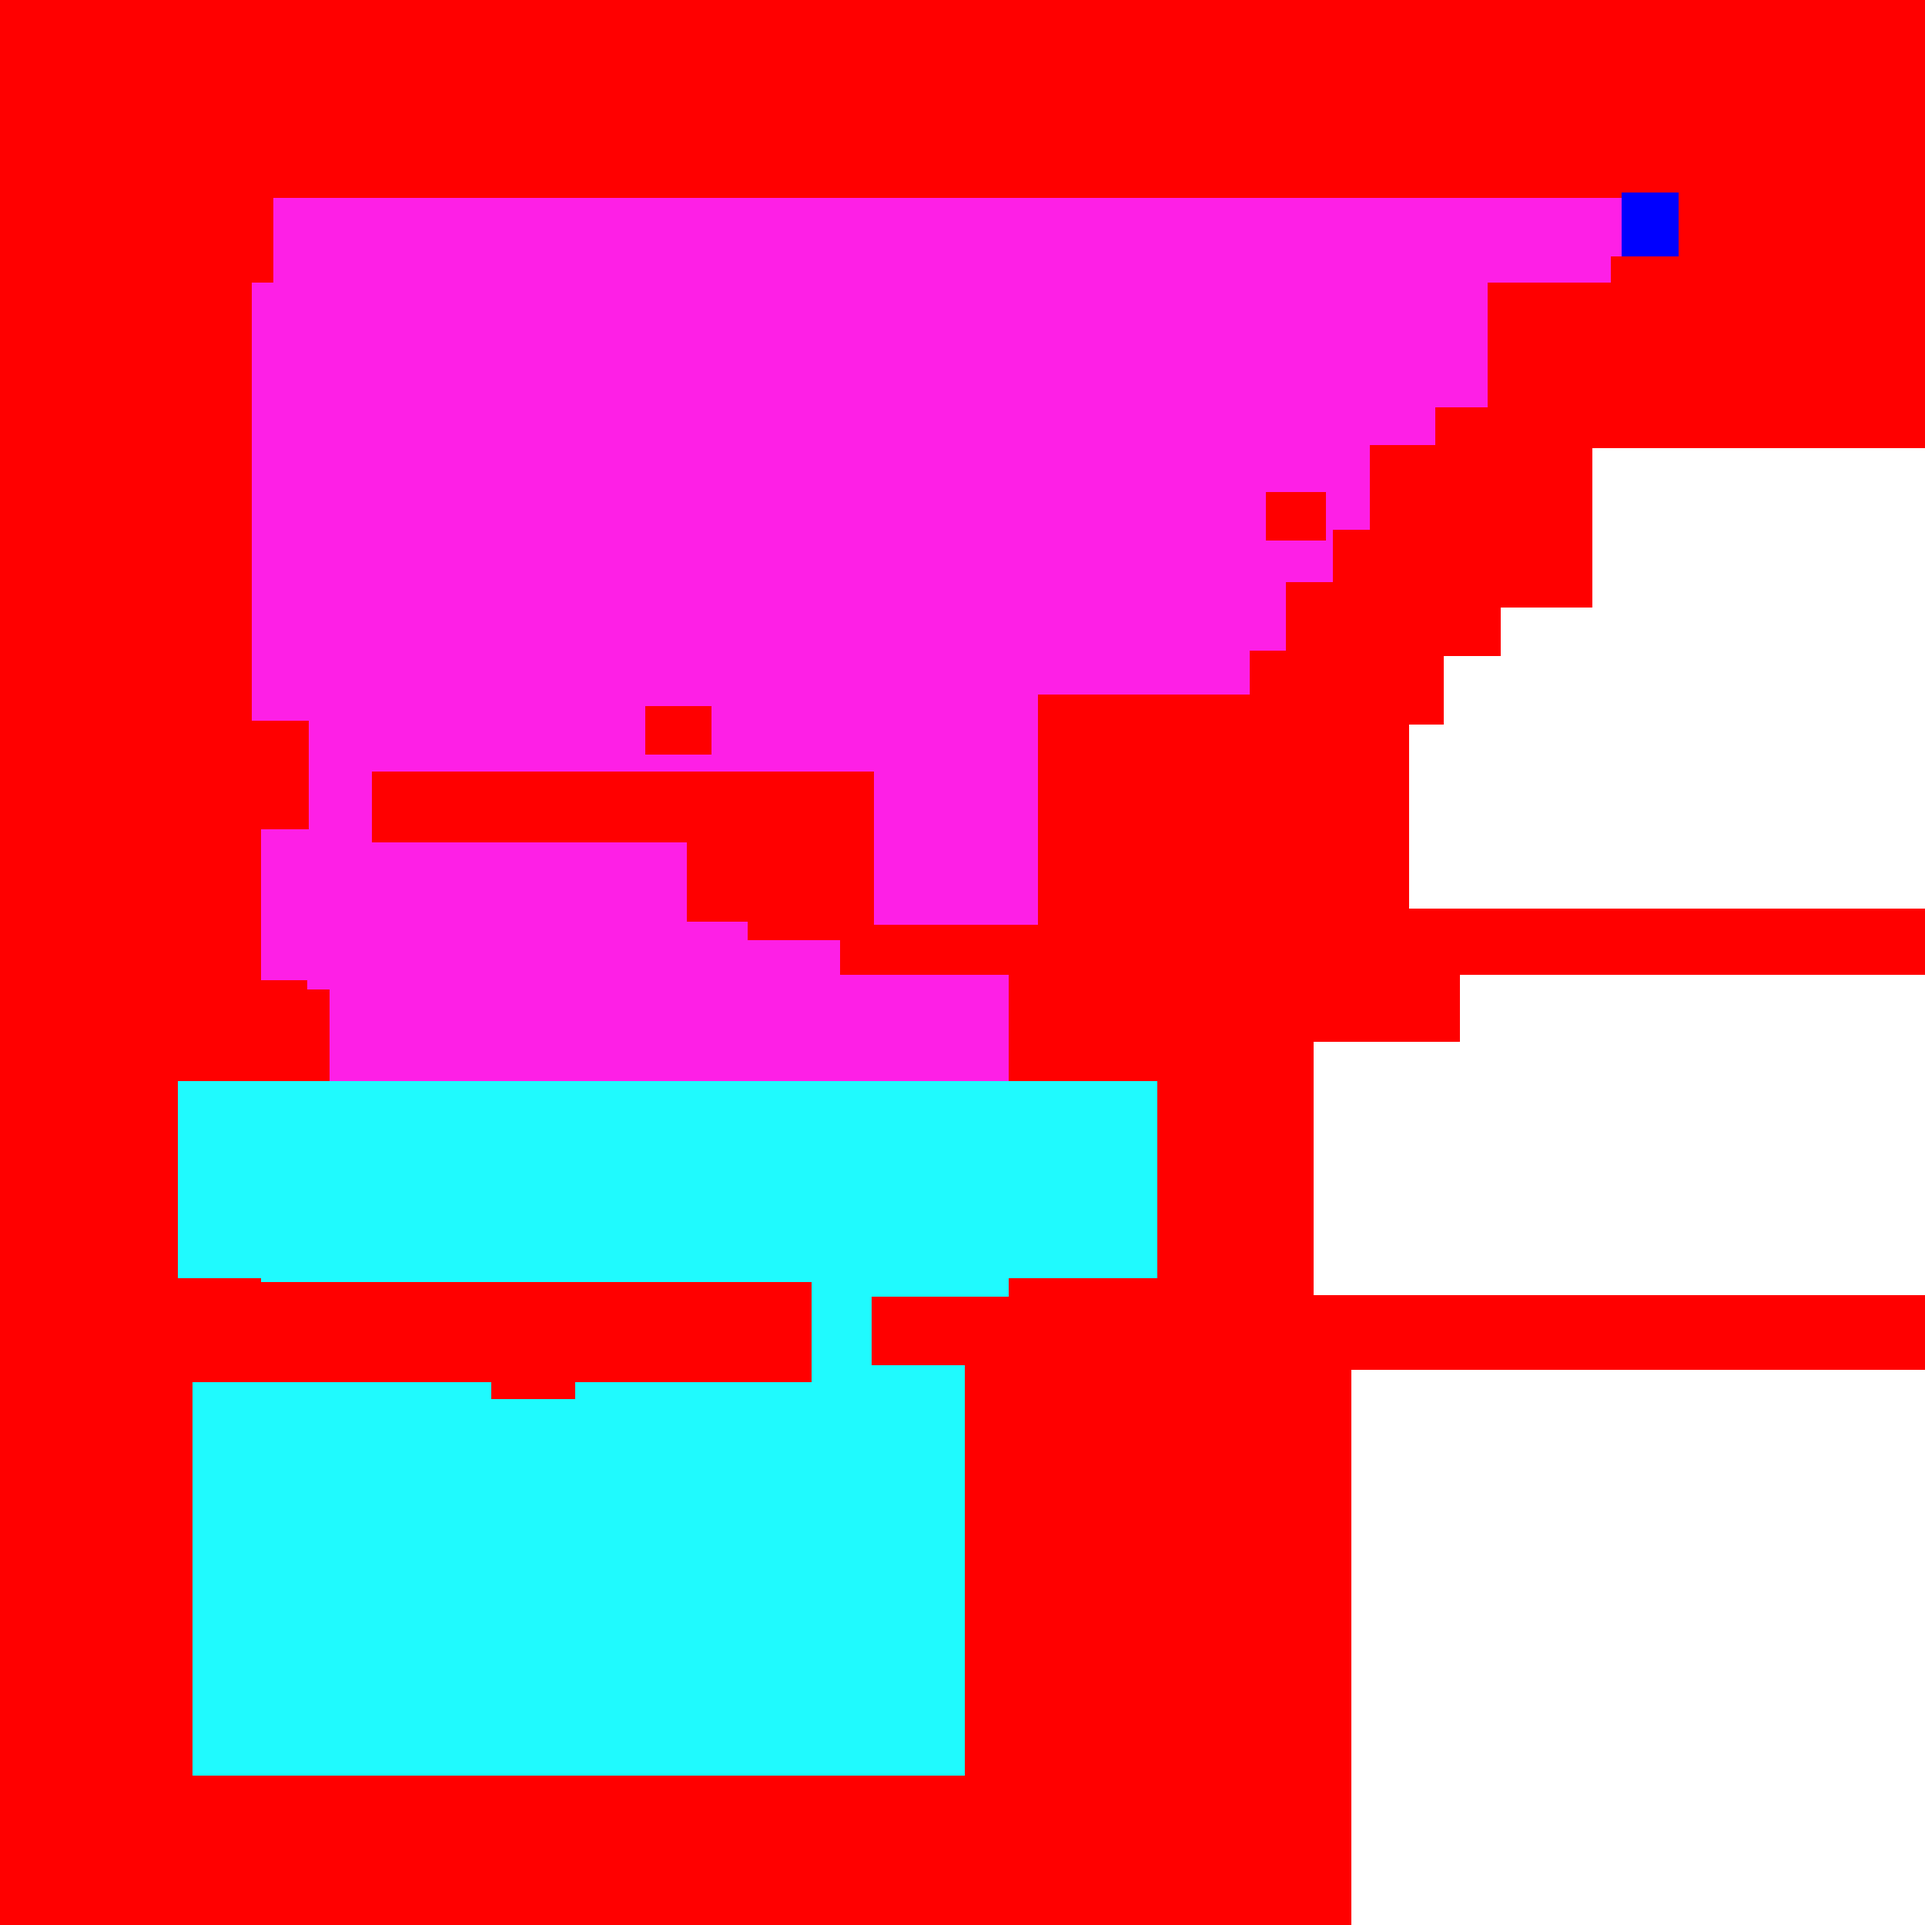
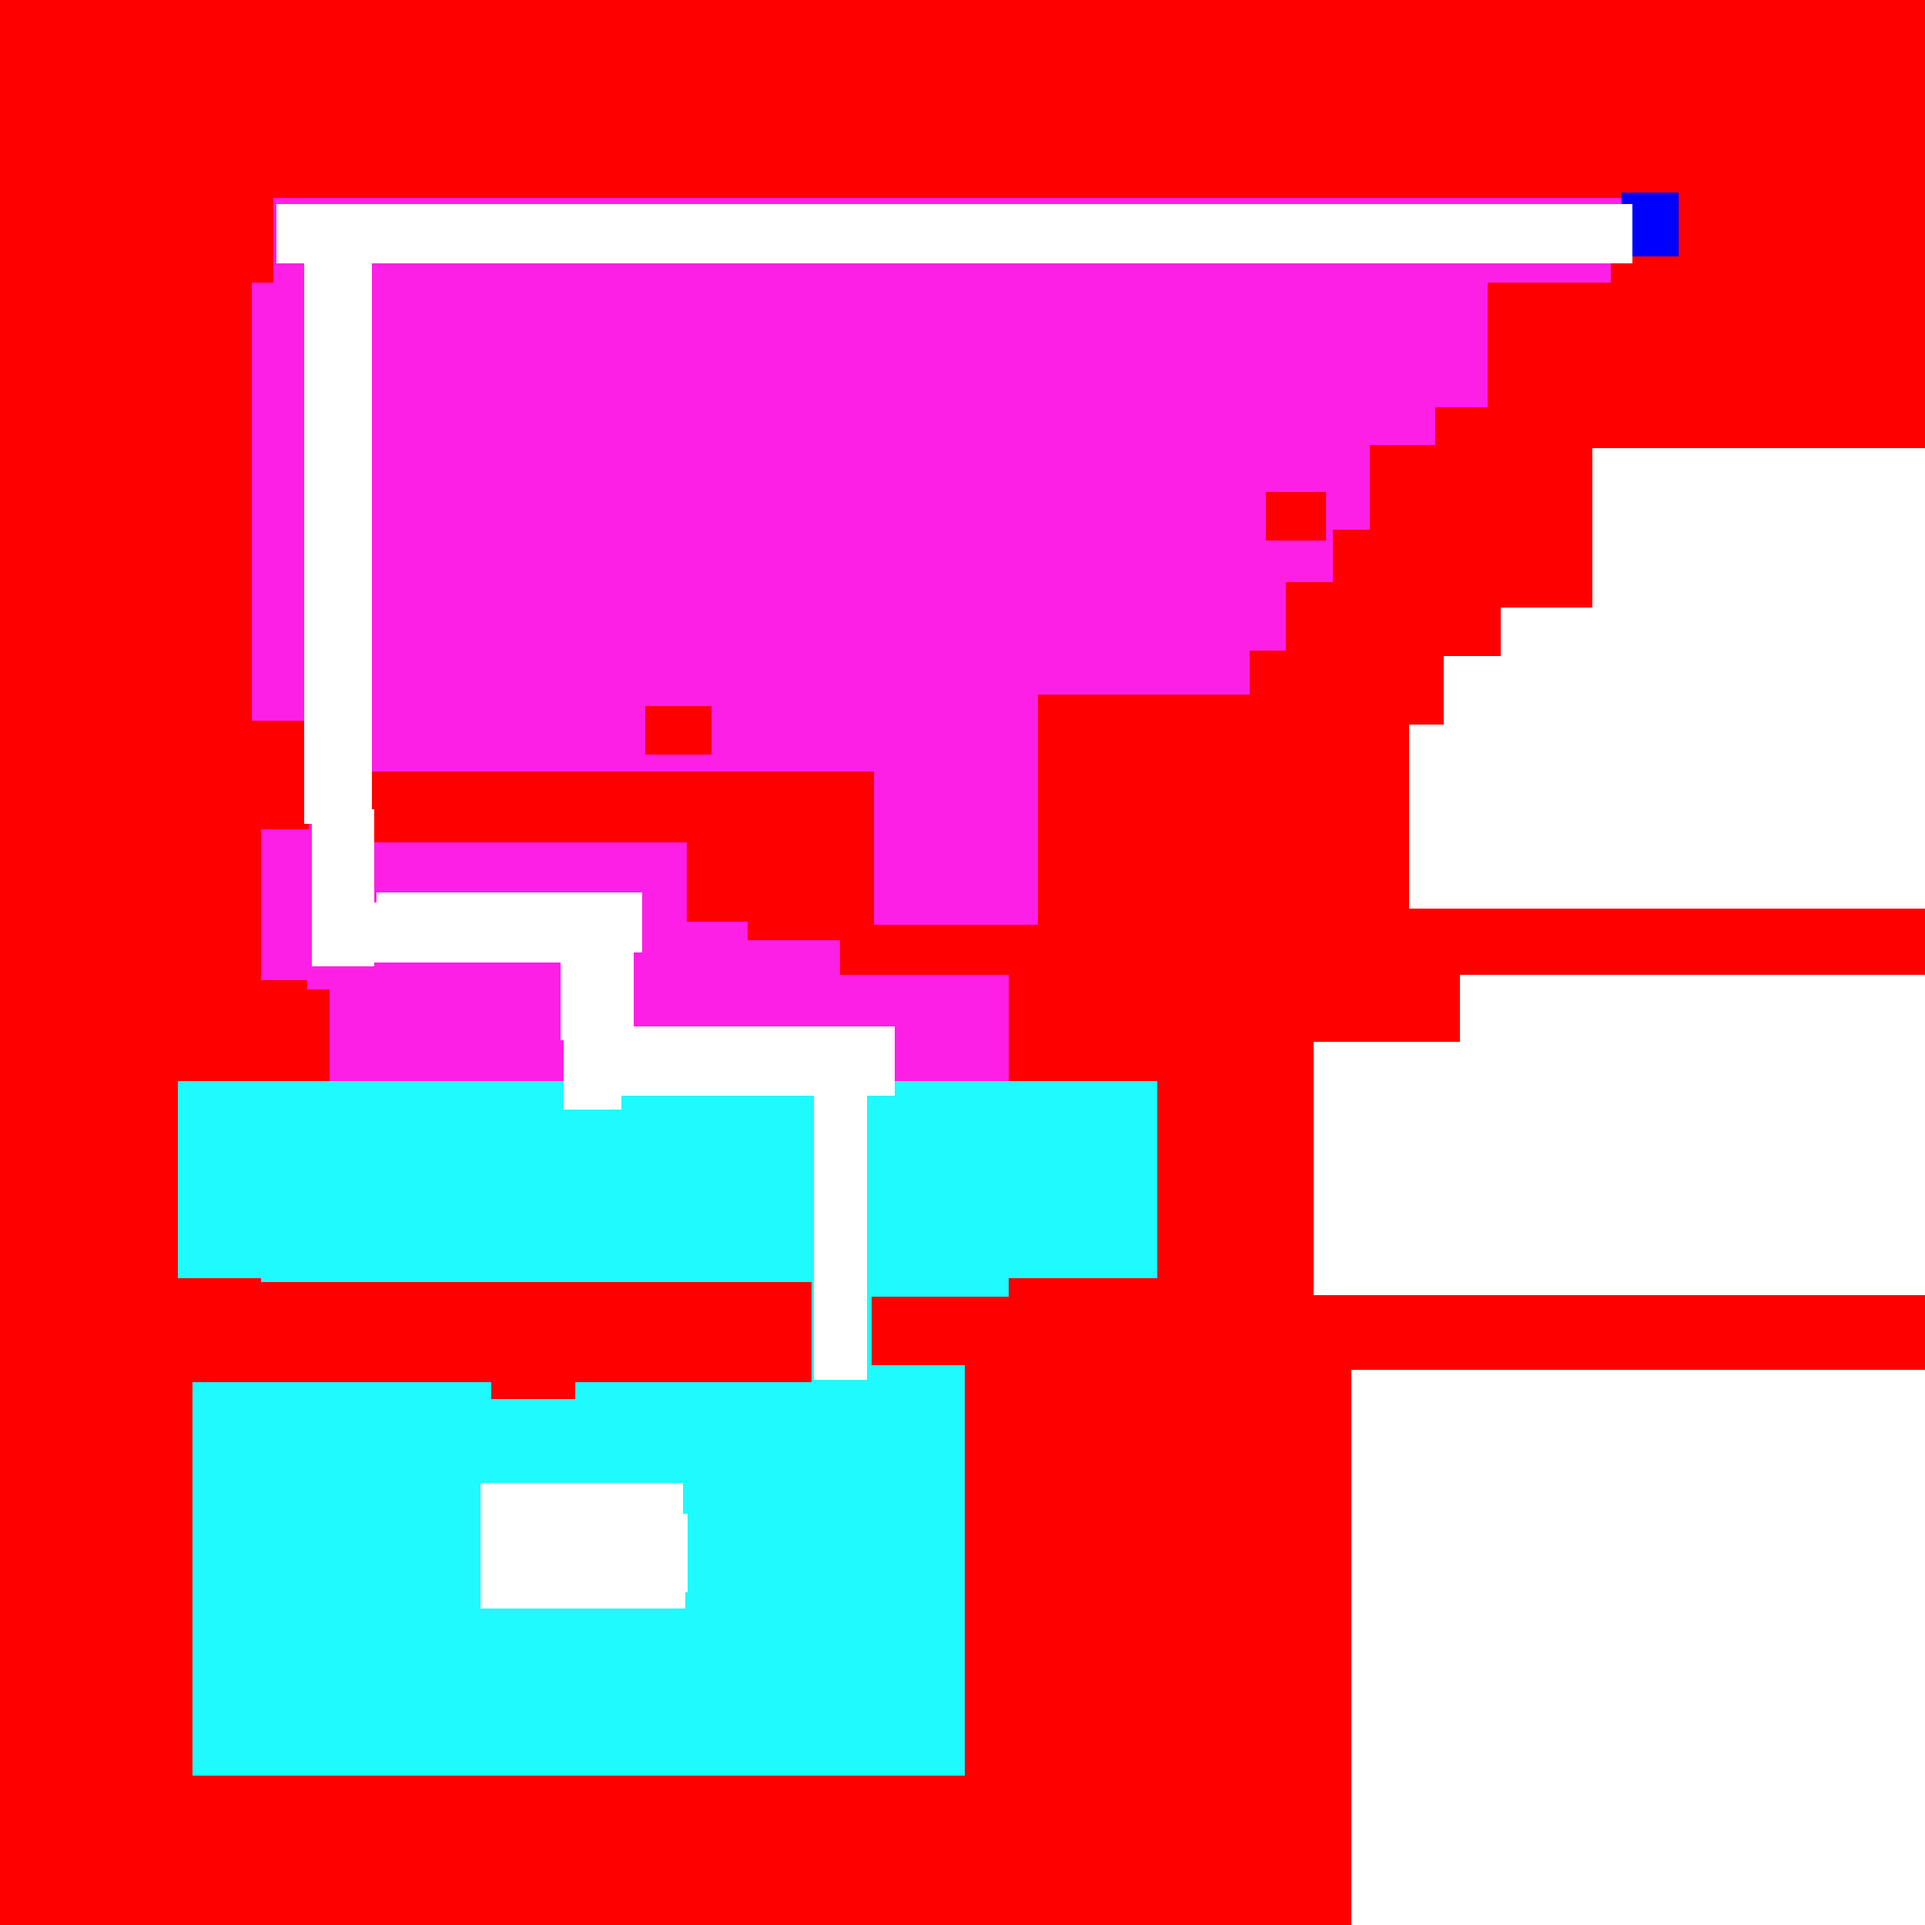
feat (monsters/): monsters spawn now on a define color

Changed region(s): [[0.1248, 0.0936, 0.8736, 0.7176], [0.2496, 0.7488, 0.3744, 0.8424]]

diff --git a/src/events/load.c b/src/events/load.c
@@ -45,7 +45,6 @@ void load_1(game_t *game, ...)
 
     game->player->save[0] = '1';
     check_save(game);
-    set_player(game, getpos);
     reset(game);
     game->scenes->page = GAME;
     game->player->nbquest = 0;
@@ -65,7 +64,19 @@ void load_1(game_t *game, ...)
         game->scenes[GAME].elements[6]->scale = (sfVector2f){0, 0};
         sfSprite_setScale(game->scenes[GAME].elements[6]->sprite,
                             game->scenes[GAME].elements[6]->scale);
+    } else if (game->player->map == 1) {
+        free_elements(game->scenes[GAME].elements[0]);
+        free_elements(game->scenes[GAME].elements[5]);
+        game->scenes[GAME].elements[0] = init_element("assets/village.jpg", (sfVector2f){0, 0},
+                            (sfVector2f){1920, 1080}, (sfVector2f){1, 1});
+        game->scenes[GAME].elements[5] = init_element("assets/roof.png", (sfVector2f){0, 0},
+                            (sfVector2f){1920, 1080}, (sfVector2f){1, 1});
+        game->scenes[GAME].elements[6]->scale = (sfVector2f){1, 1};
+        game->hitbox = sfImage_createFromFile("assets/hitboxes/hitbox.png");
+        sfSprite_setScale(game->scenes[GAME].elements[6]->sprite,
+                            game->scenes[GAME].elements[6]->scale);
     }
+    set_player(game, getpos);
 }
 
 void load_2(game_t *game, ...)
@@ -75,7 +86,6 @@ void load_2(game_t *game, ...)
 
     game->player->save[0] = '2';
     check_save(game);
-    set_player(game, getpos);
     reset(game);
     game->scenes->page = GAME;
     game->player->nbquest = 0;
@@ -96,7 +106,19 @@ void load_2(game_t *game, ...)
         game->scenes[GAME].elements[6]->scale = (sfVector2f){0, 0};
         sfSprite_setScale(game->scenes[GAME].elements[6]->sprite,
                             game->scenes[GAME].elements[6]->scale);
+    } else if (game->player->map == 1) {
+        free_elements(game->scenes[GAME].elements[0]);
+        free_elements(game->scenes[GAME].elements[5]);
+        game->scenes[GAME].elements[0] = init_element("assets/village.jpg", (sfVector2f){0, 0},
+                            (sfVector2f){1920, 1080}, (sfVector2f){1, 1});
+        game->scenes[GAME].elements[5] = init_element("assets/roof.png", (sfVector2f){0, 0},
+                            (sfVector2f){1920, 1080}, (sfVector2f){1, 1});
+        game->scenes[GAME].elements[6]->scale = (sfVector2f){1, 1};
+        game->hitbox = sfImage_createFromFile("assets/hitboxes/hitbox.png");
+        sfSprite_setScale(game->scenes[GAME].elements[6]->sprite,
+                            game->scenes[GAME].elements[6]->scale);
     }
+    set_player(game, getpos);
 }
 
 void load_3(game_t *game, ...)
@@ -106,7 +128,6 @@ void load_3(game_t *game, ...)
 
     game->player->save[0] = '3';
     check_save(game);
-    set_player(game, getpos);
     reset(game);
     game->scenes->page = GAME;
     game->player->nbquest = 0;
@@ -126,7 +147,19 @@ void load_3(game_t *game, ...)
         game->scenes[GAME].elements[6]->scale = (sfVector2f){0, 0};
         sfSprite_setScale(game->scenes[GAME].elements[6]->sprite,
                             game->scenes[GAME].elements[6]->scale);
+    } else if (game->player->map == 1) {
+        free_elements(game->scenes[GAME].elements[0]);
+        free_elements(game->scenes[GAME].elements[5]);
+        game->scenes[GAME].elements[0] = init_element("assets/village.jpg", (sfVector2f){0, 0},
+                            (sfVector2f){1920, 1080}, (sfVector2f){1, 1});
+        game->scenes[GAME].elements[5] = init_element("assets/roof.png", (sfVector2f){0, 0},
+                            (sfVector2f){1920, 1080}, (sfVector2f){1, 1});
+        game->scenes[GAME].elements[6]->scale = (sfVector2f){1, 1};
+        game->hitbox = sfImage_createFromFile("assets/hitboxes/hitbox.png");
+        sfSprite_setScale(game->scenes[GAME].elements[6]->sprite,
+                            game->scenes[GAME].elements[6]->scale);
     }
+    set_player(game, getpos);
 }
 
 void load(game_t *game, ...)

diff --git a/src/battle/check_enemy.c b/src/battle/check_enemy.c
@@ -23,16 +23,32 @@ element_t *element_copy(element_t *element)
     return copy;
 }
 
-static char *get_enemy(void)
+static bool colision(sfColor a, sfColor b)
+{
+    if (a.r == b.r && a.g == b.g && a.b == b.b)
+        return true;
+    return false;
+}
+
+static char *get_enemy(game_t *game)
 {
     char **types = str_array_from_json(CONFIG_FILE, "enemy_list");
-    char *type = types[my_random() % my_strarraylen(types)];
-    return clean_string(type);
+    float x = (game->scenes[GAME].elements[2]->pos.x +
+                        (float)game->scenes[GAME].elements[0]->rect.left + 30);
+    float y = (game->scenes[GAME].elements[2]->pos.y +
+                        (float)game->scenes[GAME].elements[0]->rect.top + 90);
+    sfColor place = sfImage_getPixel(game->hitbox, x, y);
+
+    if (colision(place, SPIDER))
+        return my_strdup("spider");
+    if (colision(place, SLIME))
+        return my_strdup("slime");
+    return clean_string(types[my_random() % my_strarraylen(types)]);
 }
 
 static void prep_battle(game_t *game)
 {
-    game->enemy = create_enemy(get_enemy(), game->player);
+    game->enemy = create_enemy(get_enemy(game), game->player);
     game->scenes[GAME].elements[2]->rect.top =
                         2 * game->scenes[GAME].elements[2]->rect.height;
     game->scenes[GAME].elements[2]->rect.left = 0;

diff --git a/include/rpg.h b/include/rpg.h
@@ -143,22 +143,22 @@
     ////////////////////////////////////////////////////////////
     /// \def SPIDER
     ////////////////////////////////////////////////////////////
-    #define SPIDER (sfColor){254, 31, 232, 255}
+    #define SPIDER (sfColor){254, 31, 230, 255}
 
     ////////////////////////////////////////////////////////////
     /// \def SLIME
     ////////////////////////////////////////////////////////////
-    #define SLIME (sfColor){254, 250, 254, 255}
+    #define SLIME (sfColor){31, 250, 254, 255}
 
     ////////////////////////////////////////////////////////////
-    /// \def TP_1
+    /// \def TP_VILLAGE
     ////////////////////////////////////////////////////////////
-    #define TP_1 (sfColor){0, 0, 255, 255}
+    #define TP_VILLAGE (sfColor){0, 0, 255, 255}
 
     ////////////////////////////////////////////////////////////
-    /// \def TP_2
+    /// \def TP_FOREST
     ////////////////////////////////////////////////////////////
-    #define TP_2 (sfColor){0, 255, 0, 255}
+    #define TP_FOREST (sfColor){0, 255, 0, 255}
 
     ////////////////////////////////////////////////////////////
     // Headers

diff --git a/src/events/teleportation.c b/src/events/teleportation.c
@@ -53,8 +53,8 @@ bool teleportation(game_t *game, sfVector2f move)
     float y = (game->scenes[GAME].elements[2]->pos.y + move.y +
                         (float)game->scenes[GAME].elements[0]->rect.top + 90);
     sfColor col = sfImage_getPixel(game->hitbox, x, y);
-    sfColor forest = TP_2;
-    sfColor village = TP_1;
+    sfColor forest = TP_FOREST;
+    sfColor village = TP_VILLAGE;
 
     if (col.r == forest.r && col.g == forest.g && col.b == forest.b) {
         tp_forest(game);

diff --git a/src/battle/random.c b/src/battle/random.c
@@ -11,12 +11,15 @@
 
 int my_random(void)
 {
-    char random[3];
+    char random[100];
     int fd = open("/dev/urandom", O_RDONLY);
+    int res;
 
     if (fd == -1)
         return -1;
-    read(fd, random, 3);
+    read(fd, random, 100);
     close(fd);
-    return ABS(random[0] + random[1] + random[2]);
+    for (int i = 0; i < 100; i++)
+        res += random[i];
+    return ABS(res);
 }

diff --git a/src/events/give_quest.c b/src/events/give_quest.c
@@ -22,7 +22,6 @@ static int *add_quest(int *quest, int nb, int quest_give)
 {
     int *new_quest = malloc(sizeof(int) * (nb + 1));
 
-    printf("add quest %d\n", quest_give);
     for (int i = 0; i < nb; i++)
         new_quest[i] = quest[i];
     new_quest[nb] = quest_give;
